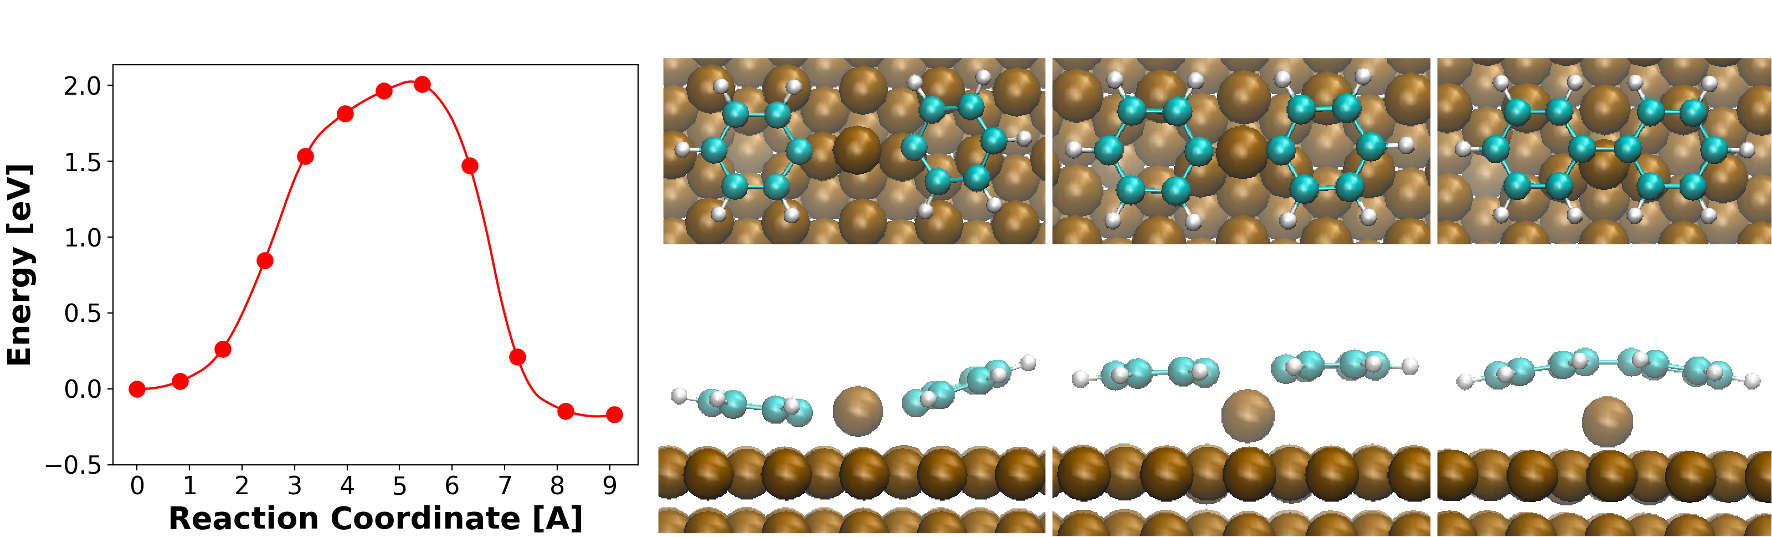
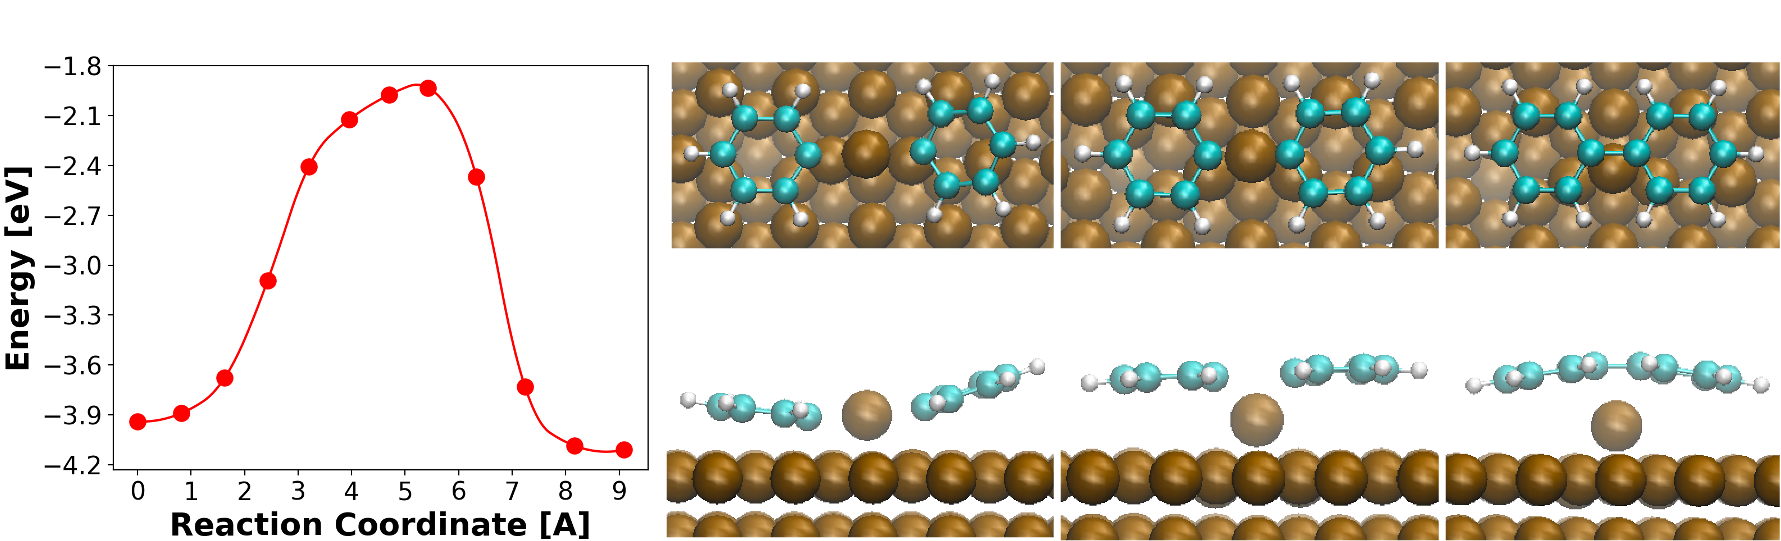
result

diff --git a/main.tex b/main.tex
@@ -551,18 +551,19 @@ Cu(111). Three halogens.
 
 }
 
+
 \section{Methods}
 %\subsection{Computation Models}
 
 \subsection{Computational Details}
 
 %RZK: learn how to use si package and correct all units here.
-Density functional theory calculations were performed using the Perdew–Burke-Ernzerhof (PBE) for the exchange-correlation functional, the projector augmented wave method for the ion-core electron interactions, and a plane-wave basis set as implemented in the Vienna ab-initio simulation package (VASP) code. Van der Waals (vdW) interactions were included using the DFT-D3 method to describe the nonlocal correlation energy. 
+The periodic density functional theory calculations were performed using the Perdew–Burke-Ernzerhof (PBE) for the exchange-correlation functional, the projector augmented wave method for the ion-core electron interactions, and a plane-wave basis set as implemented in the Vienna ab-initio simulation package (VASP) code. Van der Waals (vdW) interactions were included using the DFT-D3 method to describe the nonlocal correlation energy. 
 
-%RZK0122: If other metals are included replace with "Metal surfaces chraacterized with (111) Miller indices were moddeled with ..."
-The Cu(111) surface used in all surface Ullmann coupling was modeled with a four-layered slab consisting of 192 Cu atoms (a p($48\times 4$) unit cell) and at least 15~\AA of vacuum. The relaxations were performed with applying spin-polarization. The energy cut-off for the plane-wave basis was set to 800 eV and a $3\times 3 \times1$ k-mesh was adopted. The mesh density of k points was kept fixed in related calculations with primitive cells. All atoms were fully relaxed until the MAX force on the atom was less than $2\times 10^{-2} eV/\si{\angstrom}^{2}$. 
+The Cu(111) surface used in all Ullmann coupling was 
+modeled by a four-layered slab consisting of 192 Cu atoms and at least \SI{15}{\AA} of vacuum. Each layer is made up with 48 ($8\times 6$) Cu atoms. The relaxations were performed with applying spin-polarization. The energy cut-off for the plane-wave basis was set to \SI{800}{\electronvolt} and a $3\times 3 \times1$ k-mesh was adopted. The mesh density of k points was kept fixed in related calculations with primitive cells. All atoms were fully relaxed until the MAX force on the atom was less than $2\times 10^{-2}$ \si{\electronvolt}/\si{\AA}$^{2}$. 
 
-Transition-state calculations were carried out using a Climbing-Image Nudged Elastic Band (CI-NEB) methods with VTST code\cite{ullmann_59}. An improved initial guess~\cite{ullmann_60} for minimum energy path was conducted in CI-NEB calculation, different number of intermediates were interpolated between the initial and final configurations due to the distance between them. Plus, All atoms were fully relaxed until the MAX force on the atom was less than 0.1~\si{\eV\square\angstrom} in CI-NEB calculations.
+Transition-state calculations were carried out using a Climbing-Image Nudged Elastic Band (CI-NEB) methods with VTST code\cite{ullmann_59}. An improved initial guess~\cite{ullmann_60} for minimum energy path was conducted in CI-NEB calculation, different number of intermediates were interpolated between the initial and final configurations due to the distance between them. Plus, All atoms were fully relaxed until the MAX force on the atom was less than \SI{0.1}{\electronvolt}/\si{\AA}$^{2}$ in CI-NEB calculations.
 
 Generally the value of most thermodynamic functions can be derived from our DFT optimization results. 
 (%ZZ1215: still miss the math part, will add later)
@@ -577,33 +578,50 @@ In the dehalogenation step, the CI-NEB method was used in chlorobenzene, bromobe
 
 {\lock
 
-The precursors of surface Ullmann coupling are physisorped on the Cu(111) surface before the initialization of the chemical process. The calculated adsorption energies are -1.06~eV, -1.18~eV and -1.37~eV for chlorobenzene, bromobenzene and iodobenzene, respectively. 
-
+The precursors of surface Ullmann coupling are physisorped on the Cu(111) surface before the initialization of the chemical process. The calculated adsorption energies are \SI{-1.06}{\electronvolt}, \SI{-1.18}{\electronvolt} and \SI{-1.37}{\electronvolt} for chlorobenzene, bromobenzene and iodobenzene, respectively. 
 } %lock
+{\color{blue}
+The binding energy have been reported to be \SI{0.95}{\electronvolt}, \SI{1.12}{\electronvolt} for bromobenzene and iodobenzene on Cu(111) previously with optB86b correlation-exchange functional in DFT and a smaller slab size~\cite{jacs2013}. 
+}
 
-%RZK1223: Numbers from previous calculations. What computational methods have been used before?
+%RZK1223: Numbers from previous calculations. What computational methods have been used before? 
 
 
 \subsection{Dehalogenation}
 
+
+{\color{blue}
+
 %RZK1223: We do not seem to need this energy at this point.
 %(In the literature, they mentioned that in the gas phase, the dissociation reaction are highly endothermic (3.85 eV for bromobenzene and 3.33 eV for iodobenzene), we can get the energy for this reaction too)
 
-Fig.~\ref{fig:dissociation_Cl}, Fig.~\ref{fig:dissociation_Br} and Fig.~\ref{fig:dissociation_I} shows the initial, transition and final states (notated as IM1, TS1 and IM2 in Fig.~\ref{fig:completeenergy}, respectively) of chlorobenzene, bromobenzene and iodobenzene dehalogenation on Cu(111), respectively. 
+Fig.~\ref{fig:dissociation_Cl}, Fig.~\ref{fig:dissociation_Br} and Fig.~\ref{fig:dissociation_I} 
+%ZZ: I is under recalculation
+show the initial, transition and final states (notated as IM1, TS1 and IM2 in Fig.~\ref{fig:completeenergy}) of chlorobenzene, bromobenzene and iodobenzene dehalogenation on Cu(111). The energy change ($\Delta E$ = $E_{IM2} - E_{IM1}$) and the activation energy ($E_{barrier} = E_{TS1} - E_{IM1}$) are computed, $\Delta E$ are \SI{-0.58}{\electronvolt}, \SI{-0.8}{\electronvolt} and \SI{-0.94}{\electronvolt}, $E_{barrier}$ are \SI{1.25}{\electronvolt}, \SI{0.92}{\electronvolt} and \SI{0.68}{\electronvolt} for the break of C--Cl, C--Br and C--I bond, respectively. DFT results have demonstrated that the $E_{barrier}$ of nucleophilic substitution of chlorobenzene and bromobenzene in solution are \SI{1.11}{\electronvolt} and \SI{1.18}{\electronvolt}~\cite{ullmann_86}. The discrepancy in energy indicates that the dehalogenation reaction should go through different mechanisms on Cu(111) surface and in solution. 
+Contrary to on surface condition, dehalogenation of bromobenzene and iodobenzene in gas phase need \SI{3.85}{\electronvolt} and \SI{3.33}{\electronvolt} energy to accomplish~\cite{jacs2013}. This means copper surface can denote electrons to and stabilize dissociated species, which will make this reaction energetically favourable on Cu(111).  
+$E_{barrier}$ of dehalogenation on surface decrease by the order C--Cl $>$ C--Br $>$ C--I. In experiment, C--I bond of iodobenzene will dissociate at \SI{175}{\kelvin}~\cite{ullmann_87}, C--Br bond of iodobenzene will be at \SI{160}{\kelvin}~\cite{ullmann_67}, and a higher temperature condition is required to break C--Cl than C--Br and C--I.
+Similar procedure has also been investigated previously~\cite{jacs2013}, which offered the value for $\Delta E$ and $E_{barrier}$ of dehalogenation of bromobenzene and iodobenzene on Cu(111), $\Delta E$ are \SI{-0.70}{\electronvolt} and \SI{-0.82}{\electronvolt} and $E_{barrier}$ are \SI{0.72}{\electronvolt} and \SI{0.40}{\electronvolt} with optB86b functional and smaller slab size.
 
-RZK: First state reaction energies. Negative energies already mean that the reaction is exothermic, there is no need to state this.
+In addition the energy data, the geometry of intermediates in dehalogenation are also obtained and summarized. As shown in Figures~\ref{fig:dissociation_Cl}--\ref{fig:dissociation_I}, the distances between carbon and halogen which are going to break, the angle of phenyl ring with respect to surface are both suffering successively changes. In IM1 of chlorobenzene, bromobenzene and iodobenzene, the distance between carbon and halogen is \SI{1.74}{\AA}, \SI{1.91}{\AA} and \SI{2.12}{\AA}. These values are consistent with the calculated bond length of C--Cl (\SI{1.76}{\AA}), C--Br (\SI{1.91}{\AA}) C--I (\SI{2.14}{\AA})in gas phase based on B3LYP functional DFT calculations. C--Cl, C--Br and C--I distances have increased by \SI{0.44}{\AA}, \SI{0.55}{\AA} and \SI{0.49}{\AA} in transition state TS1 compared to the original carbon halogen bonds, respectively. Finally the dehalogenation will end in relatively stable IM2, dissociated halogen atoms occupy the hollow site on Cu(111) surface. The distance between C--Cl, C--Br and C--I increase to \SI{3.99}{\AA}, \SI{4.10}{\AA} and \SI{5.10}{\AA} in these intermediate states. The phenyl ring of chlorobenzene, bromobenzene and iodobenzene are all mostly parallel to Cu(111) surface before the dehalogenation. And in the dissociation, the phenyl rings start to become tilt on surface, and finalize at a large slope. This indicates that the carbon atoms in original carbon halogen bonds are interacting with copper atom in Cu(111) during the dehalogenation process.
 
+Summarizing the data of the first step, Cu(111) surface has been proven to evidently reduce the energy barrier of the dehalogenation of chlorobenzene, bromobenzene and iodobenzene. The copper surface can not only serve as a template and support for Ullmann coupling reaction, but also optimize the temperature condition for it to initialize. On Cu(111), the dehalogenation of iodobenzene is the most energetically favourable and chlorobenzene is the least. The mechanisms of three different halogens dissociation are very similar according to the angles and distance change in related species.
+
+
+}
+%RZK: First state reaction energies. Negative energies already mean that the reaction is exothermic, there is no need to state this.
+
+Fig.~\ref{fig:dissociation_Cl}, Fig.~\ref{fig:dissociation_Br} and Fig.~\ref{fig:dissociation_I} shows the initial, transition and final states (notated as IM1, TS1 and IM2 in Fig.~\ref{fig:completeenergy}) of chlorobenzene, bromobenzene and iodobenzene dehalogenation on Cu(111), respectively. 
 Dehalogenation reactions of three precursors are all exothermic, which in reverse, are endothermic in gas phase according to the DFT calculated energies. This is due to the formation of energetically unstable radical in gas phase, but copper surface can donate electrons to stable these intermediate species.
 %R1111: Do you mean our calculated enthalpies or experimental values? (%ZZ: add descriptions)
 %R1111: Why your state lalbels (IM2, IM1) disagree with those in the final energy profile?(%ZZ: changed)
 The energy change ($\Delta E$ = $E_{IM2} - E_{IM1}$) of dehalogenation of chlorobenzene, bromobenzene and iodobenzene on Cu(111) are -0.58 eV, -0.8 eV and -0.94 eV, respectively. As seen from the Figures~\ref{fig:dissociation_Cl}--\ref{fig:dissociation_I}, the halogens always occupy the hollow site of Cu(111) surface after the carbon-halogen bond (C-X) is broken. 
 %R1111: Physisorption must be described before dissociation. Negative, not positive adsorption energies must be used
-In IM1, the precursor molecule was physisorbed by the surface, the adsorption energy are 1.06 eV, 1.18 eV and 1.37 eV, respectively for chlorobenzene, bromobenzene and iodobenzene. (%ZZ: added)
+%In IM1, the precursor molecule was physisorbed by the surface, the adsorption energy are 1.06 eV, 1.18 eV and 1.37 eV, respectively for chlorobenzene, bromobenzene and iodobenzene. (%ZZ: added)
 %
 In the TS1, the geometry of chlorobenzene, bromobenzene and iodobenzene on Cu(111) are similar, forming a tilt angle, ready for the break of C-X, the distance of C-X are 2.18 \AA\, 2.46 \AA\ and 2.61 \AA\, respectively. 
 %R1111: Report bond elongations, not only bond lengths.
 After dehalogenation, the phenyl species and halogen atoms were separately chemisorbed by Cu(111) surface. In IM2, the distance between the carbon and halogen are increased by 1.81 \AA\, 1.64 \AA\ and 2.49 \AA\ compared to original distance, respectively. The geometry of IM2 for chlorobenzene, bromobenzene are similar, in which the phenyl species displayed a more tilt angle with the copper surface compared to the TS1. 
-%R1111: Compare you results to Ph-I in barton2017fromation (Figure5-Cu_IS in their article). They do not have vertical position for the phenyl.  (%ZZ: recalculated, the first time still vertical, try to change to initial geometry)
+%R1111: Compare you results to Ph-I in barton2017fromation (Figure5-Cu_IS in their article). They do not have vertical position for the phenyl.  (%ZZ: recalculated, not vertical)
 However, In the TS1 of iodobenzene, the phenyl specie is almost vertical to the copper surface. This makes a contribution to the highest enthalpy of iodobenzene dehalogenation. Another reason why iodobenzene possesses the highest enthalpy may come from the strongest chemisorption of Iodine on Copper. 
 %R1111: Do we want to perform additional calculations to figure out the reason? Perhaps not now. (%ZZ: agree)
 
@@ -629,21 +647,37 @@ Summarizing the dehalogenation results, the reaction mechanism of chlorobenzene,
 \label{fig:dissociation_Br}
 \end{figure*}
 
-\begin{figure*}[hbt]
-\centering
-\includegraphics[width=1.0\textwidth]{Fig/dissociation_I.png}
-\caption{The dissociation of C-I bond on Cu(111) surface. (Sphere with red color is iodine atoms)}
-\label{fig:dissociation_I}
-\end{figure*}
+% \begin{figure*}[hbt]
+% \centering
+% \includegraphics[width=1.0\textwidth]{Fig/dissociation_I.png}
+% \caption{The dissociation of C-I bond on Cu(111) surface. (Sphere with red color is iodine atoms)}
+% \label{fig:dissociation_I}
+% \end{figure*}
 
-\subsection{Diffusion and Formation of Dimerized Organometallic Intermediates}
+\subsection{Formation of C--Cu--C bridge intermediates}
+
+{\color{blue}
+Fig.~\ref{fig:formingBridge} shows the energy data of forming C--Cu--C bridge intermediate structure (notated as IM4 in Fig.~\ref{fig:completeenergy}) from dehalogenated species on Cu(111) surface. $\Delta E$ of dechlorinated, debrominated and deiodinated benzene to the goose-like IM4 are \SI{0.25}{\electronvolt}, \SI{0.16}{\electronvolt} and \SI{0.17}{\electronvolt} respectively. This step for different monohalogen benzene precursors should be the same in energy after dehalogenation since the dissociated halogen atoms are not involved in this step. Our data varies slightly in chlorine, bromine and iodine, the difference comes from the approach used to obtain the energy. The initial configuration of this step is the species just finishing dehalogenation, halogen atoms are still sit close to the phenyl ring, as shown in Fig.~\ref{fig:formingBridge}. It can be speculated that there is long range interaction between the phenyl-copper intermediate and the dissociated halogen atoms. This interaction between the chlorine atom and phenyl-copper intermediate is the strongest based on the data and basically same for bromine and iodine. This initial model used here is very consistent with the experiment evidence, as in Fig.~\ref{fig:organ}, the dissociated bromine atoms all sit around in the formation of Phenyl--Cu--Phenyl structures.
+
+In IM4 configuration, the copper interacting with two phenyl ring is initially an \emph{ideal surface} atom, and then partially lifted due to the extraction. This \emph{ideal surface} atom is raised higher by \SI{0.56}{\AA} from the first layer, while the copper atoms interact with one phenyl ring are barely extracted in IM3. It means that the force emerged between one phenyl ring and one copper atom is not adequate to extract this copper out from the surface, the strength of interaction will become sufficient when two phenyl ring diffuse to adjacent position and form such a C--Cu--C bridge structure.
+The distance between two carbon atoms in C--Cu--C bridge is \SI{3.10}{\AA}, which is \SI{1.61}{\AA} longer than the bond length of single C--C bond in biphenyl. The angle of phenyl rings connected to the Cu atom with respect to the surface are both \SI{52}{\degree}, this angle is the closest to tilt angle of debrominated phenyl in IM2 (\SI{52}{\degree}), larger than dechlorinated phenyl and smaller than deiodinated phenyl.
+
+Formation of C--Cu--C bridge structure has been proven to play a significant step in creation of adatom in surface Ullmann coupling. The interaction is potentially sufficient to extract an \emph{ideal surface} copper atom out compared to previous steps.
+
+\begin{figure}[hbt]
+\centering
+\includegraphics[width=0.45\textwidth]{Fig/FormingC-Cu-C.png}
+\caption{Energy diagram of forming C--Cu--C bridge intermediates structures from chlorobenzene, bromobenzene and Iodobenzene. The energy is computed as the difference between 2 $\times$ dehalogenated intermediates (left geometry) and C--Cu--C bridge intermediate structure $+$ two bromine atoms on Cu(111) surface. The blue circles represent chlorine, bromine and iodine atoms respectively in three situations.}
+\label{fig:formingBridge}
+\end{figure}
+}
 
 %R1111: do not use "would". State facts with certainty. "To for a C--C bond the diffusion MUST brings two phenyl groups together." (%ZZ: ok)
 After the dehalogenation, the diffusion of all species on copper surface must bring two orientation-matched phenyl groups together, leading to the formation of dimerized organometallic intermediates. Since the halogens such as chlorine, bromine and iodine have been dehalogenated and then chemisorbed by the surface, these three different precursors can be fairly considered to form the same dimerized organometallic intermediate structure in this step.
 
 Fig.~\ref{fig:organometallicintermediate} shows the optimized geometry of dimerized organometallic intermediate on Cu(111) surface. From the left picture, it is apparent that these two phenyl groups both conducted interactions with the copper atom on Cu(111) surface; from the right side, it shows that, the copper atom that interacted with two phenyl groups is partially lifted from the first layer flat. This metal atom belongs to $nature(1)$. And this phenomenon does not take place when there is only one phenyl group since the interaction is not strong enough. 
 
-%R1111: Why chlorobenzene is so different? Halogen does not participate in this step at all. How come that the reaction energy is so different?
+%R1111: Why chlorobenzene is so different? Halogen does not participate in this step at all. How come that the reaction energy is so different? (%ZZ data rechecked, the data for Cl is wrong)
 Besides, the energy change of the reaction for three precursors from dehalogenated chlorobenzene, bromobenzene and iodobenzene to dimerized organometallic intermediate are +1.40 eV, +0.17 eV and +0.17 eV, respectively. These three reactions are all endothermic, and the dehalogenated chlorobenzene will adsorb the most energy, which is consistent with the experiment that transformation to dimerized organometallic intermediates from dichlorobenzenes wound not be completed unless a higher temperature is present, but transformation of dibromobenzenes and diiodobenzenes would fulfill at room temperature.
 
 %R1111: It looks like this unfinished paragraph belongs to the next subsection: formation of the C--C bond.
@@ -659,18 +693,28 @@ Here, we considered that the dimerized organometallic intermediates were formed 
 
 \subsection{Formation of Carbon Carbon (C--C) Bond}
 
-The final coupling step is the formation of carbon carbon bond (C--C). As discussed above, we explored the two pathways of the C--C bond formation starting from  the Cu atom partially lifted from the surface by two phenyl groups. In the first pathway (Path~1), the Cu atom returns back to its original position in the first surface layer once the C-C bond is formed without producing an adatom. In the secind pathway (Path~2), the Cu atom is pulled out from its original position to become an adatom and leaving the vacancy in its original position. %This means that the metal atom is of $nature(1)$ at the beginning of surface Ullmann coupling, and in the end it changes to $nature(2)$ through the $origin(2)$ method, becoming a new adatom on metal surface.
+{\color{blue}
+The final step is the formation of C--C bond. As discussed above, we explored the two possible pathways to construct C--C bond from C--Cu--C bridge intermediate structure (IM4). In the first pathway (Path I), the \emph{ideal surface} Cu atom will return to its original position in the first layer once the C--C bond is formed without creating an adatom. In the second pathway (Path II), the \emph{ideal surface} Cu atom is fully pulled out and become an \emph{extracted adatom}, with leaving a vacancy in its original position. %This means that the metal atom is of $nature(1)$ at the beginning of surface Ullmann coupling, and in the end it changes to $nature(2)$ through the $origin(2)$ method, becoming a new adatom on metal surface.
 Here, we investigated two possibilities separately.
+}
+\subsubsection{Path I: ideal surface Cu returns to original location after Coupling Reaction}
 
-\subsubsection{Path I: Cu Returns to Original Location after Coupling Reaction}
+{\color{blue}
+The green line in Fig.~\ref{fig:completeenergy} shows path I. 
+
+Fig.~\ref{fig:bondformlift} demonstrated the NEB calculation data and geometry transformation from C--Cu--C bridge intermediates (IM4) to final dimer on a perfect surface (Dim-g) along the green path. 
+$\Delta E$ and $E_{barrier}$ of this step are \SI{-2.00}{\electronvolt} and \SI{0.49}{\electronvolt}. Experiment has indicated that the onset temperature for this step is above \SI{300}{\kelvin}~\cite{sur_sci01}, which is in line with the calculated $E_{barrier}$.
+This step has been investigated previously, $\Delta E$ and $E_{barrier}$ are provides as \SI{-1.90}{\electronvolt} and \SI{0.38}{\electronvolt} based on a smaller slab and same DFT functional.
+The Cu atom is back to the first layer from \SI{0.56}{\AA} height above in this step. The distance between two carbon atoms which are going to construct a covalent bond starts from \SI{3.10}{\AA}, then shortened by \SI{0.82}{\AA} in the transition state and finalize in \SI{1.49}{\AA}, which is the C--C bond length in biphenyl molecule. The change of this distance is consistent with earlier work~\cite{sur_sci01}. The tilt angle of phenyl ring with respect to copper surface varied from \SI{52}{\degree} to \SI{34}{\degree} and ends in nearly \SI{0}{\degree}.
+}
 
 %R1111: LATER. We need to develop better notation for all chemical species and refer to them consistently.
-%R1111: comparison to existing calculations. Comparison between different metals (and halogens?) in our own calculations.
+%R1111: comparison to existing calculations. Comparison between different metals (and halogens?) in our own calculations. (%ZZ the energy change is the same for halogens(halogens are not involved))
 In Path I, the formation of C--C bond started from the dimerized organometallic intermediate in which the copper atom was partially lifted (notated as $IS_{path1}$). Then the two carbons which would construct a new bond later slope closer to each other, while the copper atom was less lifted on the surface (notated as $TS_{path1}$). Finally, a new C-C bond was formed and the surface went back to original configuration, no adatom forms after the coupling reaction finished (notated as $FS_{path1}$).
 
 %In Fig.~\ref{fig:bondformlift}, along the potential energy surface, 6 intermediates were interpolated between $IS_{path1}$ and $FS_{path1}$. The tilt angle of phenyl species in respect to the Cu(111) surface was $50^\circ$ in $IS_{path1}$ and flattened to $35^\circ$ in $TS_{path1}$ and ended at $0^\circ$ in $FS_{path1}$. The distance between the two carbon atoms which would construct a bond varied from 3.10~\si{\angstrom} to 2.28 \AA\ and ended at 1.49 \AA\.
 
-In Fig.~\ref{fig:bondformlift}, along the potential energy surface, 6 intermediates were interpolated between $IS_{path1}$ and $FS_{path1}$. The tilt angle of phenyl species in respect to the Cu(111) surface was 50\si{\celsius} in $IS_{path1}$ and flattened to $35^\circ$ in $TS_{path1}$ and ended at $0^\circ$ in $FS_{path1}$. The distance between the two carbon atoms which would construct a bond varied from 3.10~\si{\angstrom} to 2.28~\si{\angstrom} and ended at 1.49~\si{\angstrom}.
+In Fig.~\ref{fig:bondformlift}, along the potential energy surface, 6 intermediates were interpolated between $IS_{path1}$ and $FS_{path1}$. The tilt angle of phenyl species in respect to the Cu(111) surface was 50\si{\celsius} in $IS_{path1}$ and flattened to $35^\circ$ in $TS_{path1}$ and ended at $0^\circ$ in $FS_{path1}$. The distance between the two carbon atoms which would construct a bond varied from 3.10~\si{\angstrom} to 2.28~\si{\angstrom} and ended at 1.49~\si{\angstrom}. 
 
 Path I reaction is exothermic, the enthalpy $\Delta H$ is -2.00~\si{\eV}, and $E_{barrier}$ is 0.50 eV.
 %R1111: This results agree with the computational study of the C--C formation of dibromobenzene species. Reference.
@@ -686,11 +730,40 @@ Path I reaction is exothermic, the enthalpy $\Delta H$ is -2.00~\si{\eV}, and $E
 
 \subsubsection{Path II: Cu becomes a new adatom after coupling reaction}
 
+{\color{blue}
+The red line in Fig.~\ref{fig:completeenergy} shows the path that in an \emph{ideal surface} Cu atom is fully extracted by the C--Cu--C bridge intermediates out of the first layer and become a \emph{new formed adatom} with the formation of C--C bond. There exists two consecutive reactions in this path, the two transition states are explored individually. 
+
+Fig.~\ref{fig:IM4_TS} shows first trajectory from IM4 to the C--Cu--C bridge intermediates with a fully extracted Cu adatom (IM-r1). In IM-r1, there is a vacancy on the original location of \emph{newly formed adatom}. 
+$\Delta E$ and $E_{barrier}$ of the first step are \SI{-0.20}{\electronvolt} and \SI{1.38}{\electronvolt}. The distance between carbons inside C--Cu--C bridge structure increases to \SI{3.89}{\AA} (in IM-r1) from \SI{3.10}{\AA}, and cuts down by \SI{0.34}{\AA} in the transition state. The tilt angle flattens to \SI{13}{\degree} from \SI{34}{\degree}.
+
+Fig.~\ref{fig:bondformadatom} displays the NEB energy diagram and the key intermediates configurations from IM-r1 to dimer formed on top of the \emph{newly formed adatom} (Dime-r1).
+$\Delta E$ and $E_{barrier}$ of this step are \SI{-0.17}{\electronvolt} and \SI{2.01}{\electronvolt}. It ends in the formation of a new covalent C--C with a bond length at \SI{1.50}{\AA}, the former distance between these two carbons is \SI{3.10}{\AA} in IM-r1, and condenses by \SI{0.57}{\AA} in transition state. The tilt angle in Dim-r1 is a little twisted to \SI{-9.1}{\degree}. The configuration of biphenyl should be a nearly plane structure, this can be explained by the fact that the new formed C--C is directly on the top of fully extracted Cu adatom. The distance from the Cu adatom to formed C--C bond is \SI{1.66}{\AA}, leading to the repulsion force and distort the two phenyl ring to a degree.
+This path will finally reach the state where a new adatom, a vacancy spot and a biphenyl form on copper surface. Ideally there are no interaction among these three species (Dim-r2). The energy of Dim-r2 is increased by \SI{0.14}{\electronvolt} compared to Dim-r1.
+
+Besides, we also investigated the effect of Ullmann coupling intermediates on creation of adatoms, as shown in Fig.~\ref{fig:onlysurface}. The bottom line shows the potential energy of IM3, IM4 and IM-r1 in Fig.~\ref{fig:completeenergy}. The surface configuration of these three intermediates are separately taken out from the system and perform a single point energy calculation, the results are displayed in the top line. The energy of copper surface increased by \SI{1.48}{\electronvolt} from IM4 to IM-r1, but the potential energy of IM-r1 is \SI{0.20}{\electronvolt} lower than IM4, this means that the interaction between two phenyl species and the \emph{ideal surface} Cu is strong to extract the Cu atom out of first layer, and even lead to a more stable state on potential energy surface.
+
+}
+
+
 In Path II, the process started from the organometallic intermediate whereh the copper atom is fully pulled out as an adatom (notated as $IS_{path2}$) (here we created a vacancy on surface corresponding to the creation of adatom, to assure the whole system has the same number of atoms). Then the two phenyl groups would be lifted higher and closer to each other, while the copper atom is less lifted and move towards a hollow site on the surface(notated as $TS_{path2}$). Finally, a new C-C bond is formed and a new adatom and a new vacancy are created on the surface (notated as $FS_{path2}$).
 
 As Fig.~\ref{fig:bondformadatom} show, in this path, 10 intermediates were interpolated between $IS_{path2}$ and $FS_{path2}$.The tilt angle of phenyl species in respect to the Cu(111) surface initialized at $8.5^\circ$ and $12.2^\circ$ in $IS_{path2}$ (the difference angle could be accounted by the fact that vacancy is close the one phenyl species, this will affect a little on the tilt angle), then flattened to nearly $0^\circ$ in $TS_{path2}$ and ended at $-9.1^\circ$ in $FS_{path2}$ (the negative angle arises from the fact that the adatom is right behind the biphenyl). The distance between the two carbons which would construct a bond varied from 3.89 \AA\ to 2.53 \AA\ and ended at 1.50 \AA\ .
 
 Path II reaction is slightly exothermic, the enthalpy $\Delta H$ is -0.17 eV, and $E_{barrier}$ is 2.00 eV, higher than the $E_{barrier}$ of Path I.
+
+\begin{figure}[hbt]
+\centering
+\includegraphics[width=0.45\textwidth]{Fig/onlysurface.png}
+\caption{Energy diagram of IM3, IM4 and IM-r1, top line is the energy of pure surface geometry and the bottom line is the energy of Ullmann reaction species on surface.}
+\label{fig:onlysurface}
+\end{figure}
+
+\begin{figure*}[hbt]
+\centering
+\includegraphics[width=1.0\textwidth]{Fig/IM4_IM_r1.png}
+\caption{Full extraction of an ideal surface Cu atom out in Path II}
+\label{fig:IM4_TS}
+\end{figure*}
 
 \begin{figure*}[hbt]
 \centering
@@ -702,9 +775,18 @@ Path II reaction is slightly exothermic, the enthalpy $\Delta H$ is -0.17 eV, an
 %R1111: All titles and subtitles use sentence case, meaning only the first word is capitalized.
 \subsubsection{Path I vs path II}
 
+{\color{blue}
+The possibility of path I and path II are compared in multi-dimension.
+The potential energy data and simplified geometry are present in Fig.~\ref{fig:completeenergy}. Two mechanism start to vary from IM4, path red is both kinetically and thermodynamically more favourable due to a lower-energy transition state and more stable product. This means at the same temperature condition, the reaction indicated in path I will take place at a higher speed and account for a larger percentage.
+
+However, the evidence in geometry provides a different result. In experiment, the distance between two carbons in C--Cu--C bridge structure is \SI{4.5}{\AA} \textpm\ \SI{0.6}{\AA} based on the STM image of this bridge intermediates. This corresponds to the distance in IM-r1 of path II, which is \SI{3.89}{\AA}. This means that the C--Cu--C intermediates is more likely to possess an adatom in nature, this adatom is either from an \emph{ideal surface} or it is an \emph{pre-existing} adatom.
+
+Taking the reaction condition into consideration. The temperature of final forming C--C bond from two phenyl species need to go up to above \SI{300}{\kelvin}~\cite{sur_sci01}. The activation energy of IM4 evolved to TS-g in green line and to TS-r1 in red line are \SI{0.38}{\electronvolt} and \SI{1.38}{\electronvolt}, respectively. The experimental temperature can meet the requirement of both two paths, but the reaction in path II will occur with a higher speed.
+
+}
 Taking the data of Path I and Path II into consideration, finally, a feasible C--C bond was constructed in both cases (bond length is around 1.5 \AA\, expected to be 1.34 \AA\ - 1.54 \AA). From thermodynamic aspect, Path I is much more exothermic, which means it will lead to a more stable product. Kinetically, the activation energy of Path I is also smaller than Path II, which means at the same temperature, the Path I reaction would take place at a higher speed and account for a much larger percentage. In this case, we could safely conclude that, if there is no pre-exiting adatom on copper surface, the formation of C--C bond in surface Ullmann coupling will follow the path I.
 
-%R1111: Compare C--C distance in IM4 and IM5 to the experimental data for Ph-Halogen. Can we see IM5 experimentally? 3.89Ang vs 3.1Ang.
+%R1111: Compare C--C distance in IM4 and IM5 to the experimental data for Ph-Halogen. Can we see IM5 experimentally? 3.89Ang vs 3.1Ang. (%ZZ: Added)
 
 
 %R1111: Note that the difference between dimer1 and dimer2 is smaller than the difference between FS1 and IS. Probably because the dimer interacts stronger with the adatom than with the surface. 
@@ -712,7 +794,11 @@ Taking the data of Path I and Path II into consideration, finally, a feasible C-
 
 \subsection{Energy diagram of complete Surface Ullmann Coupling Reaction}
 
-In this section, the summary of thermodynamic data of all intermediates in surface Ullmann coupling reaction is present in one diagram. As is shown in Fig.~\ref{fig:completeenergy}.
+{\color{blue}
+The summary of thermodynamic data of all intermediates in surface Ullmann coupling reaction is present in Fig.~\ref{fig:completeenergy}.
+
+Apart from the intermediates discussed above, we consider the desoprtion of all species on copper surface after the completion of Ullmann coupling reaction. $\Delta E$ of desorping formed biphenyl and two single bromine atoms are \SI{1.72}{\electronvolt} and \SI{4.01}{\electronvolt} in both two paths. Experiment shows that the desorption of bromine atoms on Cu(111) surface evolves above \SI{900}{\kelvin}~\cite{jacs2013}. 
+}
 
 Here taking the surface Ullmann coupling between two bromobenzene as example, the physisorption of two bromobenzene on Cu(111) surface decrease the energy of the whole system by 2.35 eV, which is widely recognized in experiment because adsorbing aromatic species on copper surface as a fast procedure. 
 Then till the formation of new C--C bond, a detailed discussion has been demonstrated in previous sections. The last two successive steps are concerned with the desorption of biphenyl molecule and two dehalogenated bromine atoms. 
@@ -750,10 +836,11 @@ the red line is the surface Ullmann Coupling reaction following Path II, the gre
 
 \subsection{Formation of Adatom on Pure Cu Surface}
 
-Finally, the energy of forming an adatom on a perfect Cu(111) surface is also presented. The goal of showing this energy diagram is to launch a comparison between two different conditions, both of which deliver an adatom on Cu(111) surface. One is the formation without any species on metal surface, the other one is with surface Ullmann coupling reaction.
+{\color{blue}
+Finally, the energy of forming an adatom on a perfect Cu(111) surface is also presented. The goal of showing this energy diagram is to launch a comparison between two different conditions both delivering an adatom on Cu(111) surface. One is the formation without any species on metal surface, the other one is with surface Ullmann coupling reaction.
 As Figure.~\ref{fig:pureadatomform} shows, the reaction of forming a new adatom-vacancy pair on perfect Cu(111) surface is endothermic, $\Delta H$ is 1.76 eV and the $E_{barrier}$ is 2 eV. This means at room temperature, the formation of adatom is unfavourable. 
 However, as is shown in Fig.~\ref{fig:completeenergy}, the presence of organometallic intermediate in surface Ullmann coupling could promote the formation of adatoms on surface both thermodynamically and kinetically. This pathway might be considered as a plausible method to create adatoms on metal surface.
-
+}
 \begin{figure*}[hbt]
 \centering
 \includegraphics[width=1.0\textwidth]{Fig/pureadatomform.png}
@@ -775,3 +862,11 @@ However, as is shown in Fig.~\ref{fig:completeenergy}, the presence of organomet
 \bibliography{references}% Produces the bibliography via BibTeX.
 
 \end{document}
+
+
+
+
+
+
+
+
